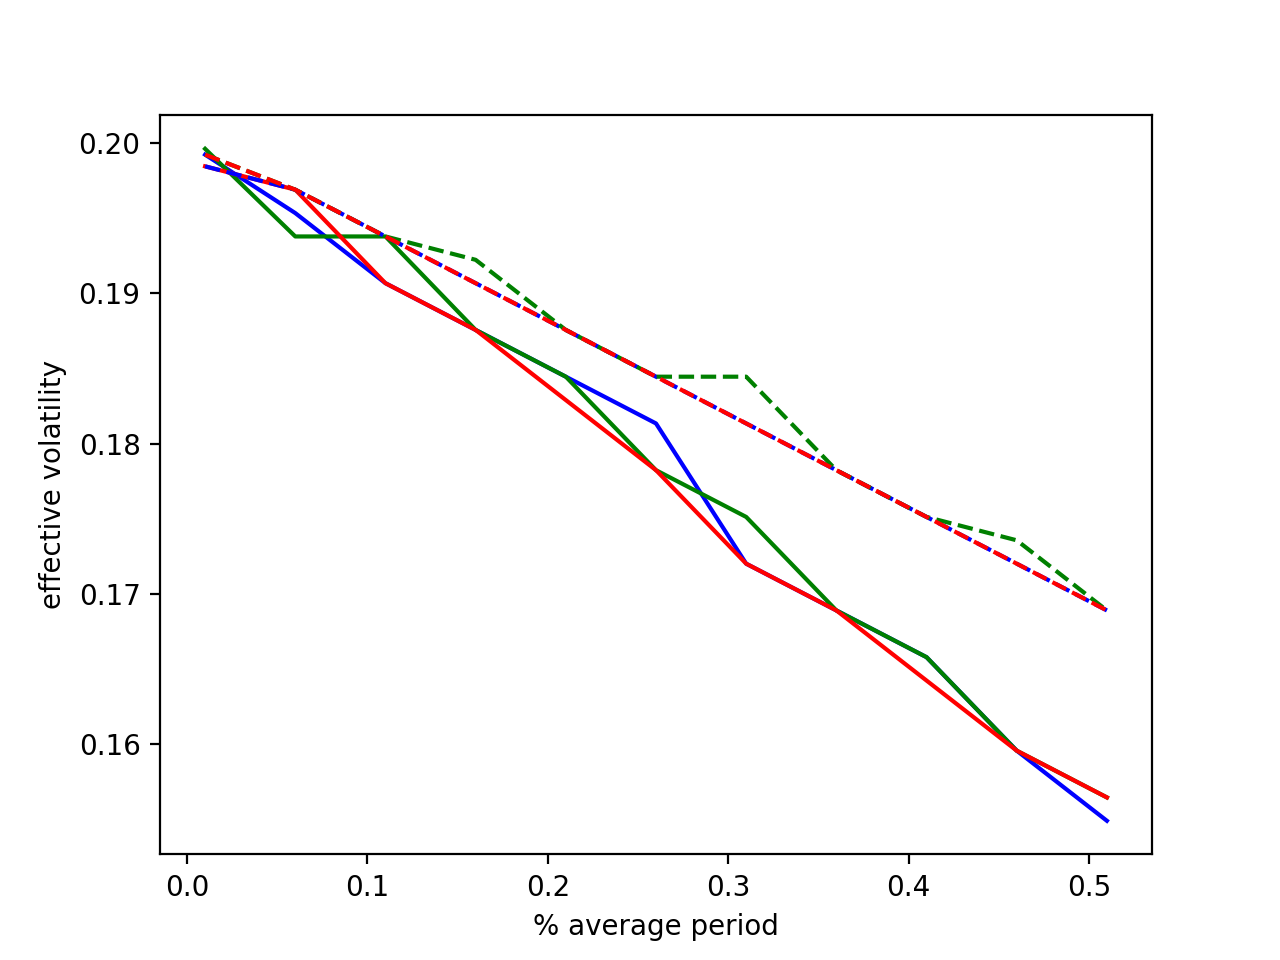
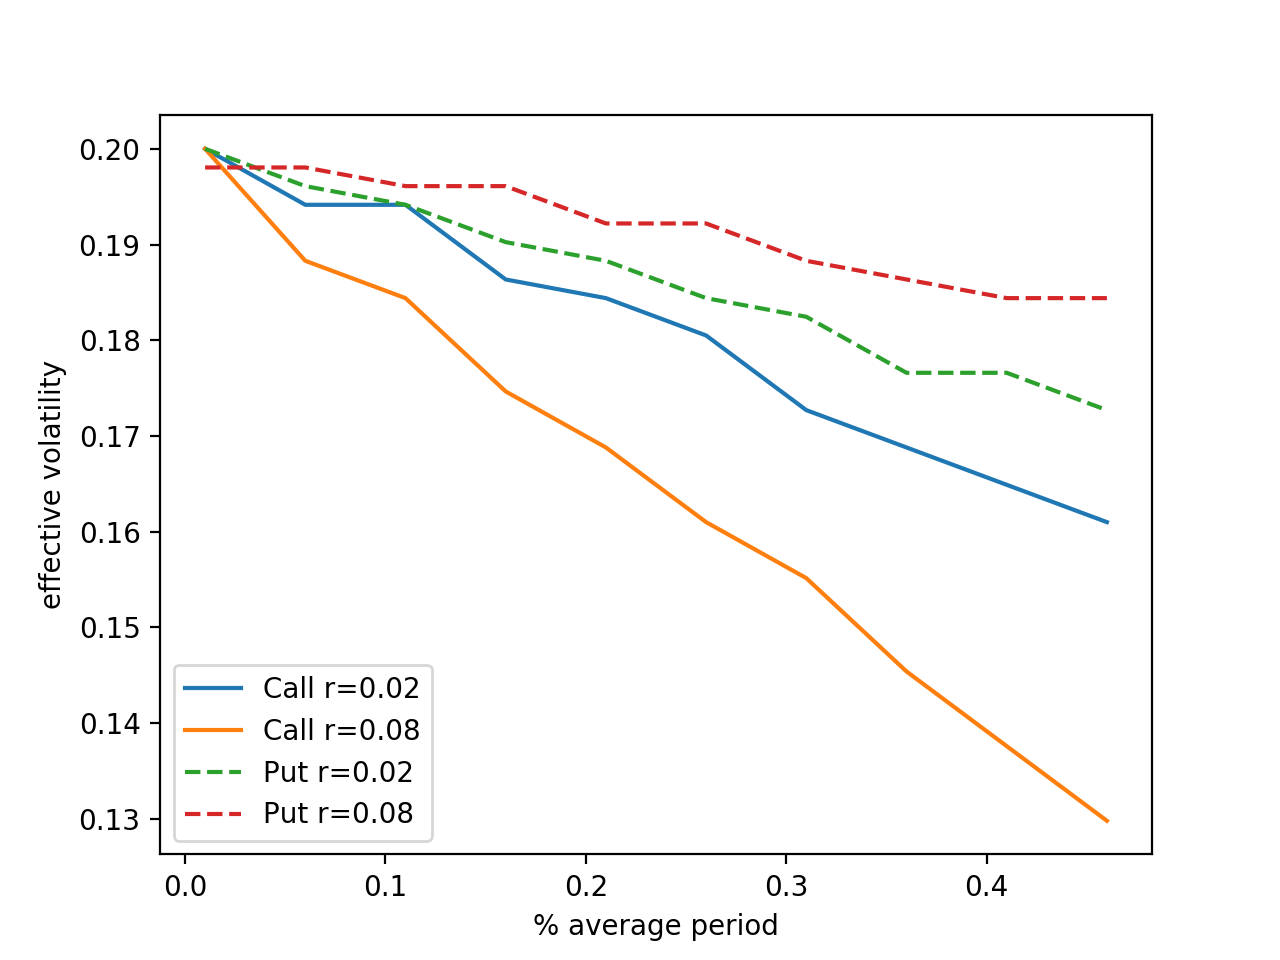
pde pricing, implied vol, effective vol and local vol

diff --git a/option.py b/option.py
@@ -4,10 +4,7 @@ import numpy as np
 import scipy.stats
 import time
 from abc import ABC, abstractmethod
-import copy
 
-# PDE and local volatility
-# payoff()
 # is monte_carlo error acceptable?
 
 
@@ -16,7 +13,7 @@ class Asset:
 
     Attributes:
         price (float): asset price
-        vol (function): local volatility of the asset.
+        vol (function): local volatility of the asset
     """
 
     def __init__(self, price, vol):
@@ -24,7 +21,7 @@ class Asset:
 
         self.price = price
         self.vol = vol
-        # if a float is passed for vol (e.g. constant volatility) make it a callable object
+        # if a float is passed for vol (constant volatility) make it a callable object
         if not callable(vol):
             self.vol = lambda x, y: vol
 
@@ -54,16 +51,16 @@ class Asset:
             t += dt
         return sim_price
 
-    def sim_plot(self, growth_rate, duration, time_step, num_sim=5):
-        """Plot simulation of asset price
+    def sim_plot(self, growth_rate, duration, step=100, num_sim=5): #How to specify time_step = duration/100 by default
+        """Plot simulation of the asset price movement
 
         Args:
             growth_rate (float): growth rate of the asset price, usually taken to be the free interest rate
             duration (float): duration of simulation
-            time_step (float): time step of each simulation
+            step (int): number of time steps in each simulation, defaults to 100
             num_sim (int): number of simulations, defaults to 5
         """
-        t = np.arange(0.0, duration, time_step)
+        t = np.arange(0.0, duration, duration/step)
         sim_price = self.simulate(duration, growth_rate, num_sim, len(t) - 1)
         plt.plot(t, np.transpose(sim_price))
         plt.show()
@@ -217,16 +214,9 @@ class EuropeanOption(Option):
         interest_rate (float): risk free interest rate
         pricing method (str): the main pricing method for the option, "Binomial", "MonteCarlo" or "Analytic"
     """
-    def Foo(self, sigma):
-        asset = Asset(self.asset.price, sigma)
-        option = EuropeanOption(self.option_type, asset, self.strike, self.term, self.interest_rate, "Analytic")
-        return option.price()
 
     def analytic(self):
-        """Price a European option with Black-Scholes-Merton analytic formula.
-
-        It assumes a constant volatility.
-        """
+        """Price a European option with Black-Scholes-Merton analytic formula, assuming a constant volatility."""
         vol = self.asset.vol(1.0, 0.0)
         d1 = (np.log(self.asset.price / self.strike)
               + (self.interest_rate + vol ** 2 / 2) * self.term) \
@@ -245,7 +235,7 @@ class EuropeanOption(Option):
         Args:
             step (int): number of layers in the tree. Defaults to 1000.
         Returns:
-            price of the European option
+            price of the European option (float)
         """
         dt = 1.0 * self.term / step
         a = np.exp(self.interest_rate * dt)
@@ -299,7 +289,7 @@ class EuropeanOption(Option):
         Args:
             step (int): number of layers in the tree. Defaults to 1000.
         Returns:
-            price of the European option
+            price of the European option (float)
         """
         vol = self.asset.vol(1.0, 0.0)
         dt = 1.0 * self.term / step
@@ -331,7 +321,7 @@ class EuropeanOption(Option):
             number_simulation (int): number of Monte Carlo simulations. Defaults to 10,000.
             steps (int): length of each Monte Carlo simulations. Defaults to 100.
         Returns:
-            price of the European option
+            price of the European option (float)
         """
         simulations = self.asset.simulate(self.term, self.interest_rate, number_simulation, steps)
         # list of asset prices at maturity QQ: should I include comments like this
@@ -340,21 +330,26 @@ class EuropeanOption(Option):
         price = np.exp(-self.interest_rate * self.term) * np.mean(payoff_list)
         return price
 
-    def pde_pricing(self, dx, grid_size=4.0, ratio=1.0):
-        """Price a European option by solving Black-Scholes-Merton differential equation
+    def pde(self, dx, grid_size=4.0, ratio=1.0):
+        """Price a European option by solving Black-Scholes differential equation
 
         Args:
             dx (float): spatial grid separation
-            grid_size (float): size of spatial grid
+            grid_size (float): size of spatial grid, defaults to 4
             ratio (float): controlling time step size
         Returns:
-            price of the European option
+            price of the European option (float)
         """
+        # a change of variable in Black-Scholes equation is performed, as x= ln(s), s = asset price.
         dt = ratio * dx ** 2
         t = self.term
+        # Normalizing prices by strike, to work with order 1 numbers.
         normalized_price = self.asset.price / self.strike
+        # normalized strike is 1.
         k = 1.0
+        # [-n, n] range in x corresponds to [k e^(-n), k e^n] in s.
         x = np.arange(-grid_size, grid_size + dx, dx)
+        # evaluating option price at maturity
         if self.option_type == "Call":
             option_price = np.maximum(np.exp(x) - k, 0)
         else:
@@ -362,6 +357,8 @@ class EuropeanOption(Option):
         while t > 0:
             temp_price = option_price
             t -= dt
+            # updating option price. The first and last element in option_price
+            # need to be updated by boundary conditions.
             for i in range(1, len(x) - 1):
                 sigma = self.asset.vol(np.exp(x[i]), t)
                 option_price[i] = temp_price[i] * (1 - sigma ** 2 * dt / dx ** 2 - self.interest_rate * dt) \
@@ -369,9 +366,12 @@ class EuropeanOption(Option):
                                   (sigma ** 2 * dt / dx ** 2 + (self.interest_rate - 0.5 * sigma ** 2) * dt / dx) \
                                   + 0.5 * temp_price[i - 1] * \
                                   (sigma ** 2 * dt / dx ** 2 - (self.interest_rate - 0.5 * sigma ** 2) * dt / dx)
+            # updating boundary values
             if self.option_type == "Put":
                 option_price[0] *= np.exp(-self.interest_rate * dt)
+        # corresponding value to the asset price in terms of x
         x0 = np.log(normalized_price)
+        # taking the average of two elements closest to x0 in option_price and renormalize the price
         price = self.strike * (option_price[x > x0][0] + option_price[x < x0][-1]) / 2.0
         return price
 
@@ -383,6 +383,31 @@ class EuropeanOption(Option):
             return self.monte_carlo(*args)
         elif self.pricing_method == "Analytic":
             return self.analytic()
+
+    def implied_vol(self, price, top_vol=1.0, bot_vol=0.001, accuracy=0.05):
+        """Calculate the implied volatility of an option using bisection method
+
+        This method solves for the volatility of an option given its price.
+        Args:
+            price (float): traded price of the option
+            top_vol (float): high value of volatility in bisection method
+            bot_vol (float): low value of volatility in bisection method
+            accuracy (float): the acceptable amount of error in the solution
+        Returns:
+            implied volatility of the option (float)
+        """
+        asset = Asset(self.asset.price, 0.5 * (top_vol + bot_vol))
+        eu_option = EuropeanOption(self.option_type, asset, self.strike, self.term, self.interest_rate, "Analytic")
+        price_guess = eu_option.price()
+        while abs(price - price_guess) > accuracy:
+            if price_guess > price:
+                top_vol = 0.5 * (top_vol + bot_vol)
+            else:
+                bot_vol = 0.5 * (top_vol + bot_vol)
+            asset = Asset(self.asset.price, 0.5 * (top_vol + bot_vol))
+            eu_option = EuropeanOption(self.option_type, asset, self.strike, self.term, self.interest_rate, "Analytic")
+            price_guess = eu_option.price()
+        return 0.5 * (top_vol + bot_vol)
 
 
 class AmericanOption(Option):
@@ -457,6 +482,7 @@ class AmericanOption(Option):
         return option_price[0, 0]
 
     def price(self, *args):
+        """Price American option"""
         return self.binomial(*args)
 
 
@@ -506,14 +532,21 @@ class AsianOption(Option):
         Returns:
             price of the Asian option and its Monte Carlo error.
         """
-        # QQ how about adding monte_carlo_error to Option?
         price_list = []
         for i in range(sample):
             price_list.append(self.monte_carlo(number_simulation, steps))
         return np.mean(price_list), np.std(price_list)
 
     def price(self, *args):
+        """Price Asian option"""
         return self.monte_carlo(*args)
+
+    def effective_vol(self, top_vol=1.0, bot_vol=0.001, accuracy=0.05, *args):
+        """Find the volatility of a European option with similar properties and price of the Asian option"""
+        price = self.monte_carlo_error(*args)[0]
+        asset = Asset(self.asset.price, 1.0)
+        eu_option = EuropeanOption(self.option_type, asset, self.strike, self.term, self.interest_rate, "Analytic")
+        return eu_option.implied_vol(price, top_vol=top_vol, bot_vol=bot_vol, accuracy=accuracy)
 
 
 ex_vol = 0.2
@@ -539,42 +572,39 @@ ex_average_period = 0.2
 asian_call = AsianOption("Call", ex_stock, ex_strike, ex_term, ex_interest, ex_average_period)
 asian_put = AsianOption("Put", ex_stock, ex_strike, ex_term, ex_interest, ex_average_period)
 
-av_period_list = np.arange(0.01, 0.55, 0.05)
-rate_list = [0.02, 0.04, 0.08]
-sigma_list_list = []
-type_list = ["Call", "Put"]
-for ty in type_list:
-    for rate in rate_list:
-        price_list = []
-        for av_period in av_period_list:
-            asian_call = AsianOption(ty, ex_stock, ex_strike, ex_term, ex_interest, av_period)
-            price_list.append(asian_call.monte_carlo_error()[0])
-            print("hooray")
-        sigma_list = []
-        for price in price_list:
-            vol1 = ex_vol
-            vol2 = 0.001
-            stock = Asset(ex_asset_price, vol1)
-            eu_call = EuropeanOption(ty, stock, ex_strike, ex_term, ex_interest, "Analytic")
-            price1 = eu_call.Foo(vol1)
-            price2 = eu_call.Foo(vol2)
-            price3 = eu_call.Foo(0.5*(vol1+vol2))
-            while abs(price - price3) > 0.05:
-                if price3 > price:
-                    vol1 = 0.5*(vol1+vol2)
-                else:
-                    vol2 = 0.5*(vol1+vol2)
-                price3 = eu_call.Foo(0.5*(vol1+vol2))
-            sigma_list.append(0.5*(vol1+vol2))
-        sigma_list_list.append(sigma_list)
-
-plt.plot(av_period_list, sigma_list_list[0], 'b-', av_period_list, sigma_list_list[1], 'g-', av_period_list, sigma_list_list[2], 'r-')
-plt.plot(av_period_list, sigma_list_list[3], 'b--', av_period_list, sigma_list_list[4], 'g--', av_period_list, sigma_list_list[5], 'r--')
+rate_list = [0.02, 0.08]
+av_period_list = np.arange(0.01, 0.5, 0.05)
+plot_list = []
+for rate in rate_list:
+    temp_rate = asian_call.interest_rate
+    asian_call.interest_rate = rate
+    sigma_list = []
+    for av_period in av_period_list:
+        temp_av_period = asian_call.average_period
+        asian_call.average_period = av_period
+        sigma_list.append(asian_call.effective_vol())
+        asian_call.average_period = temp_av_period
+    asian_call.interest_rate = temp_rate
+    plot, = plt.plot(av_period_list, sigma_list)
+    plot_list.append(plot)
+for rate in rate_list:
+    temp_rate = asian_put.interest_rate
+    asian_put.interest_rate = rate
+    sigma_list = []
+    for av_period in av_period_list:
+        temp_av_period = asian_put.average_period
+        asian_put.average_period = av_period
+        sigma_list.append(asian_put.effective_vol())
+        asian_put.average_period = temp_av_period
+    asian_put.interest_rate = temp_rate
+    plot, = plt.plot(av_period_list, sigma_list, "--")
+    plot_list.append(plot)
+plt.legend(plot_list, ["Call r=0.02", "Call r=0.08", "Put r=0.02", "Put r=0.08"])
 plt.xlabel("% average period")
 plt.ylabel("effective volatility")
 plt.show()
 
-# print(eu_call_analytic.pde_pricing(0.01, ratio=1.0))
+# print(eu_call_analytic.pde(0.01, ratio=1.0))
 
 # print("option price")
 # print("European")
